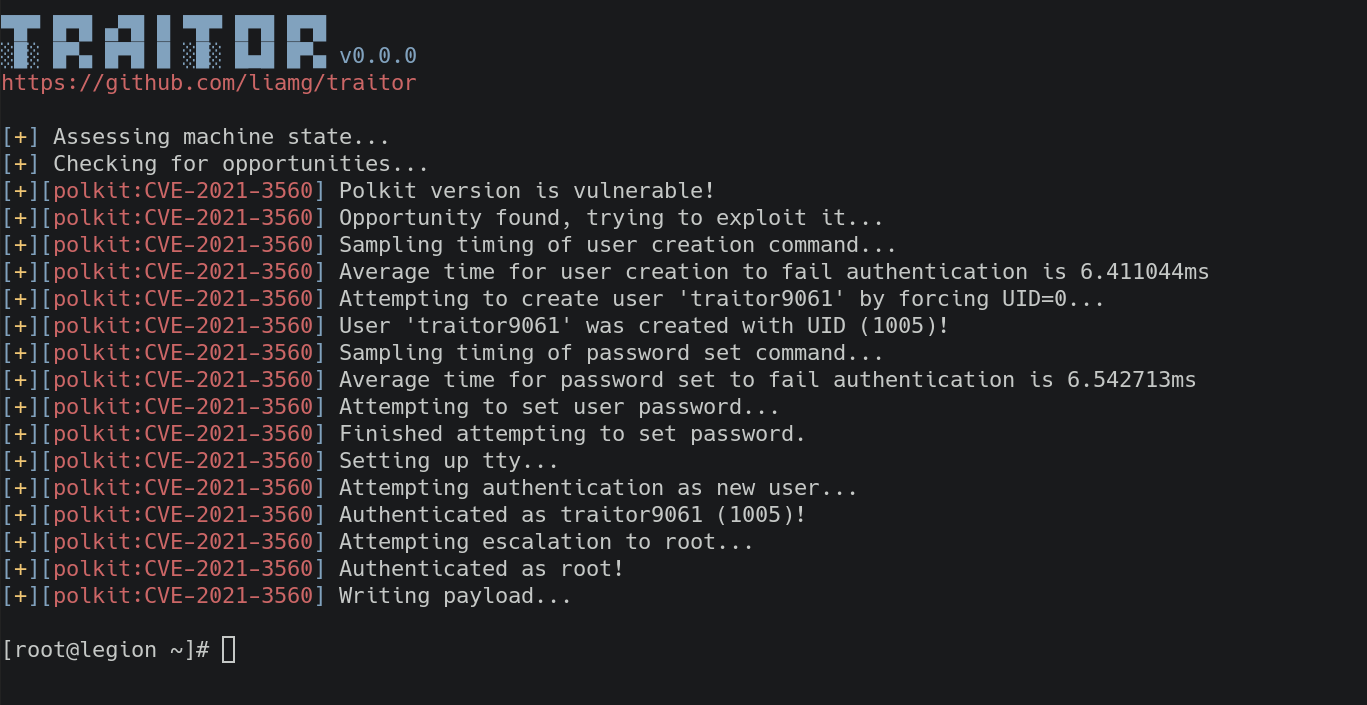
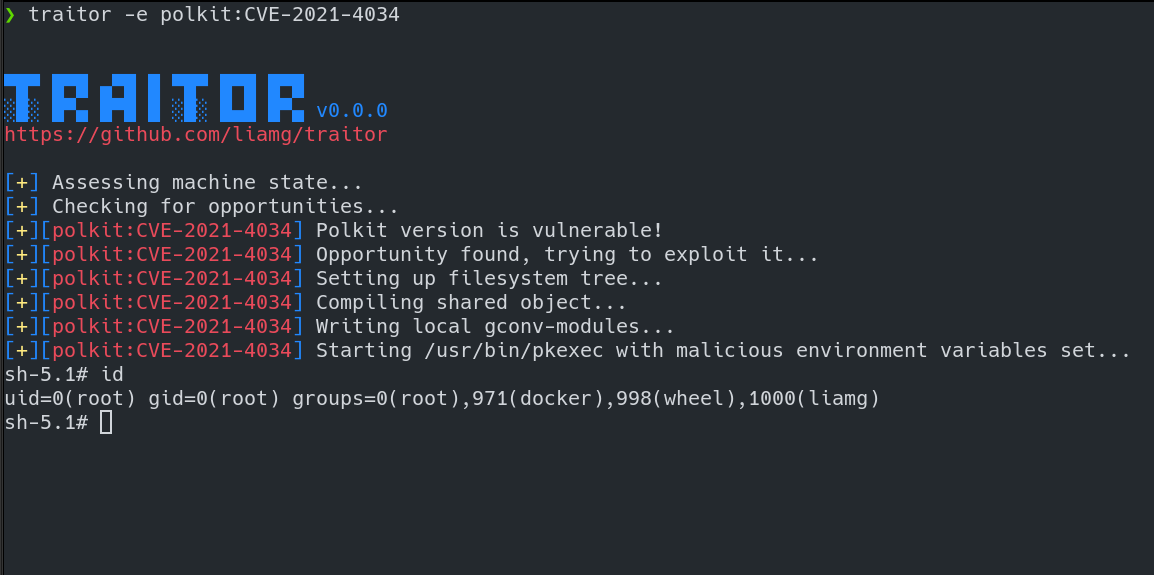
add new gif to readme

Changed region(s): [[0.0, 0.0, 1.0, 0.8574], [0.0, 0.887, 0.1872, 0.9461], [0.8111, 0.3548, 0.8735, 0.4139]]

diff --git a/README.md b/README.md
@@ -4,9 +4,9 @@ Automatically exploit low-hanging fruit to pop a root shell. Linux privilege esc
 
 Traitor packages up a bunch of methods to exploit local misconfigurations and vulnerabilities (including most of [GTFOBins](https://gtfobins.github.io/)) in order to pop a root shell.
 
-![Demo](polkit.png)
+![Demo](demo.gif)
 
-It'll exploit most sudo privileges listed in GTFOBins to pop a root shell, as well as exploiting issues like a writable `docker.sock`, or the recent polkit CVE-2021-3560. More routes to root will be added over time too.
+It'll exploit most sudo privileges listed in GTFOBins to pop a root shell, as well as exploiting issues like a writable `docker.sock`, or the recent polkit CVE-2021-4034. More routes to root will be added over time too.
 
 ## Usage
 
